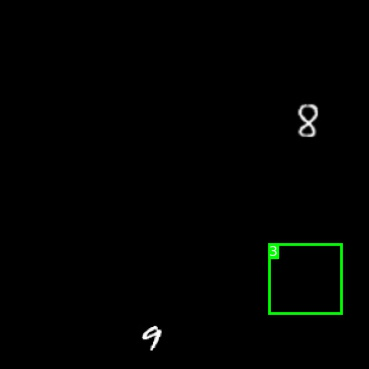
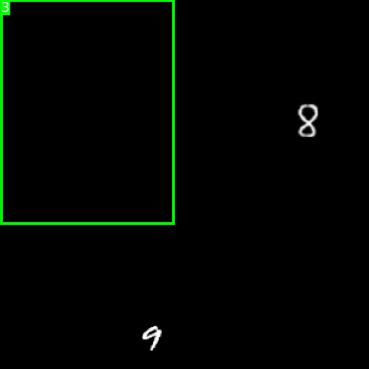
small changes

Changed region(s): [[0.0, 0.0, 0.477, 0.626], [0.7154, 0.6558, 0.9539, 0.8645]]

diff --git a/test.py b/test.py
@@ -51,7 +51,7 @@ def predict(img, default_boxes):
     for c in range(1, num_classes):
         cls_scores = confs[:, c]
 
-        score_idx = cls_scores > 0.5
+        score_idx = cls_scores > 0.15
         # cls_boxes = tf.boolean_mask(boxes, score_idx)
         # cls_scores = tf.boolean_mask(cls_scores, score_idx)
         cls_boxes = boxes[score_idx]
@@ -94,7 +94,7 @@ if __name__ == '__main__':
 
     try:
         # ssd = get_mobilenet_SSD(image_size=(300,300,3), num_classes=num_classes)
-        ssd = keras.models.load_model("./models/ssd_small.h5")
+        ssd = keras.models.load_model("./models/ssd.h5")
     except Exception as e:
         print(e)
         print('The program is exiting...')
